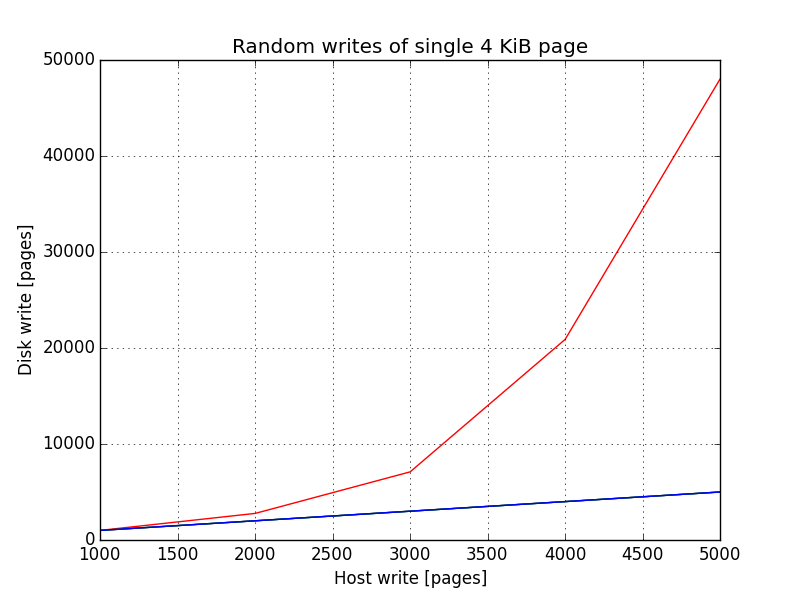
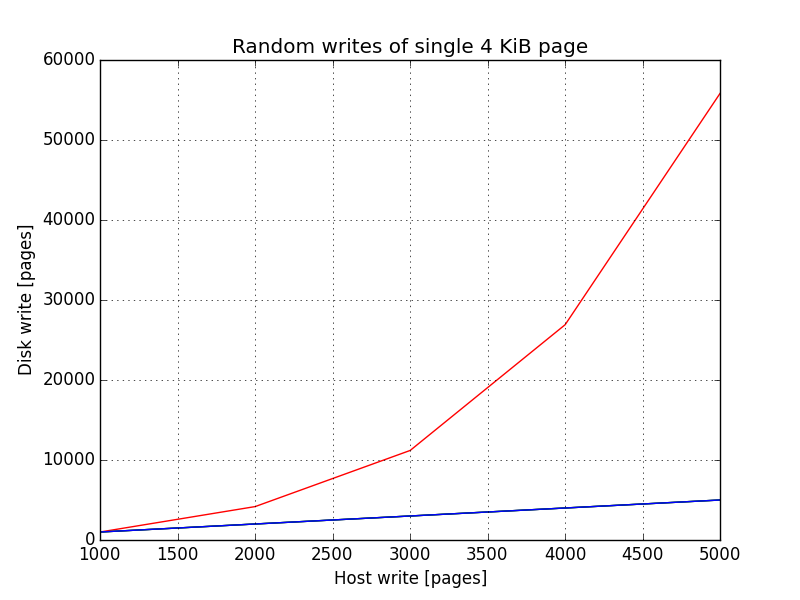
Improved gc with forced clean in case of failures due to disk full

diff --git a/simulator/NAND/BaseNANDDisk.py b/simulator/NAND/BaseNANDDisk.py
@@ -422,7 +422,7 @@ class BaseNANDDisk(NANDInterface):
 
     @check_block
     @check_page
-    def host_write_page(self, block=0, page=0):
+    def host_write_page(self, block=0, page=0, gc_was_forced=False):
         """
 
         :param block:
@@ -430,13 +430,16 @@ class BaseNANDDisk(NANDInterface):
         :return:
         """
         # check if we need to run the garbage collector
-        self.run_gc()
+        self.run_gc(force_run=gc_was_forced)
 
         # execute the write
         res, status = self.raw_write_page(block=block, page=page)
         if res:
             # update statistics
             self._host_page_write_request += 1  # the host actually asked to write a page
+        elif not gc_was_forced and status == OPERATION_FAILED_DISKFULL:
+            # force a gc run and retry
+            return self.host_write_page(block=block, page=page, gc_was_forced=True)
 
         return res, status
 

diff --git a/simulator/NAND/GarbageCollectors/GarbageCollectorInterface.py b/simulator/NAND/GarbageCollectors/GarbageCollectorInterface.py
@@ -32,18 +32,18 @@ class GarbageCollectorInterface(NANDInterface, metaclass=ABCMeta):
     def get_gc_name(self):
         return NotImplemented
 
-    def run_gc(self):
+    def run_gc(self, force_run=False):
         """
 
         :return:
         """
         # check the overall conditions to execute the gc
-        if self.check_gc_run():
+        if force_run or self.check_gc_run():
             # run the gc on every block
             execution = False
             for b in range(0, self.total_blocks):
                 # check the conditions on this block
-                if self.check_gc_block(block=b):
+                if force_run or self.check_gc_block(block=b):
                     # ok, run it
                     res = self.execute_gc_block(block=b)
                     if not execution and res:

diff --git a/simulator/NAND/NANDInterface.py b/simulator/NAND/NANDInterface.py
@@ -97,7 +97,7 @@ class NANDInterface(metaclass=ABCMeta):
         return NotImplemented
 
     @abstractclassmethod
-    def host_write_page(self, block=0, page=0):
+    def host_write_page(self, block=0, page=0, gc_was_forced=False):
         return NotImplemented
 
     @abstractclassmethod
